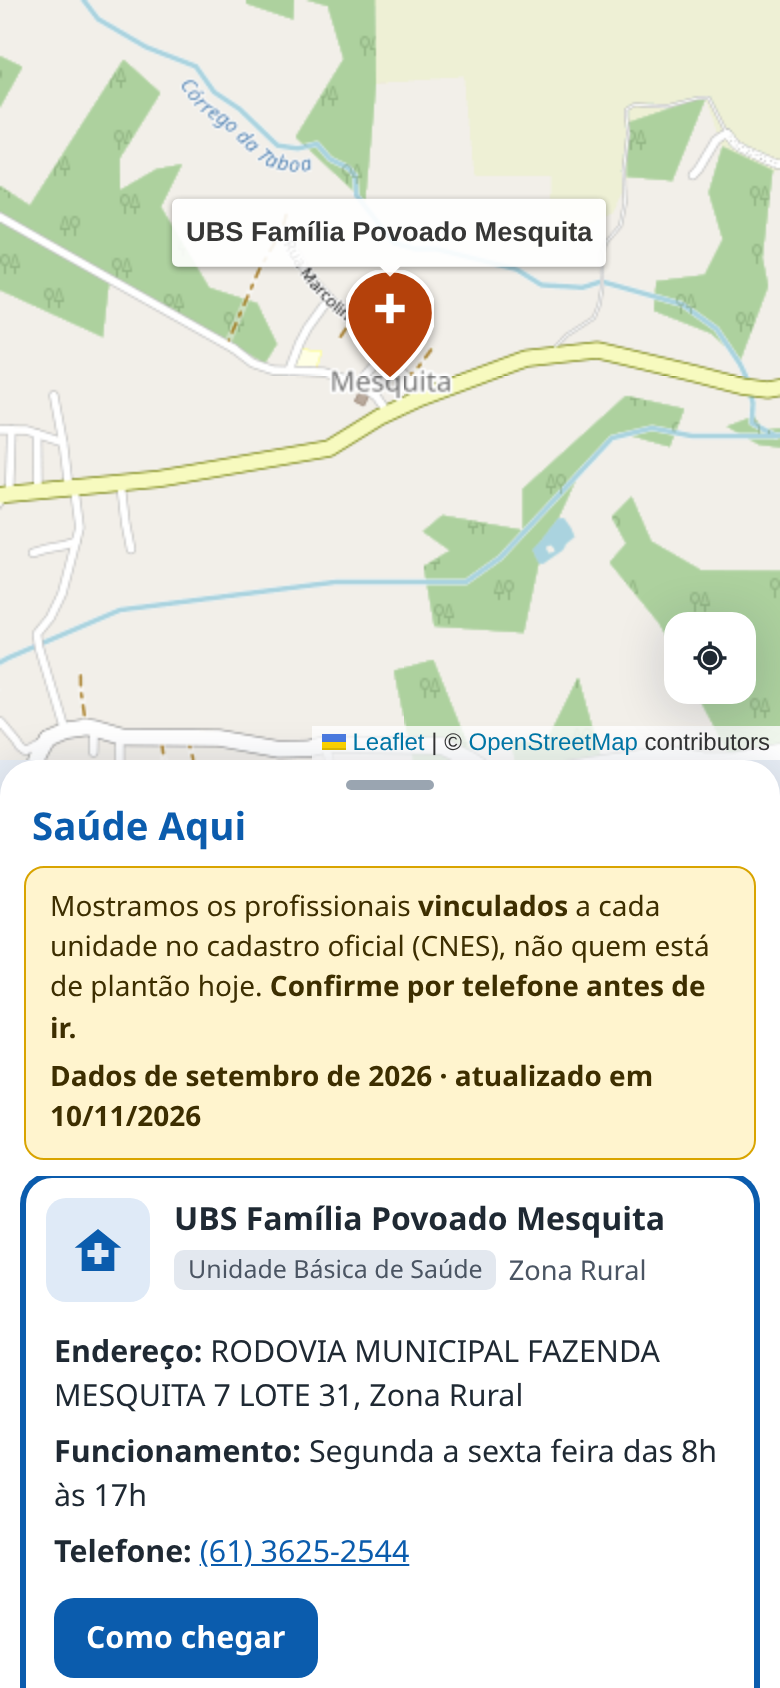
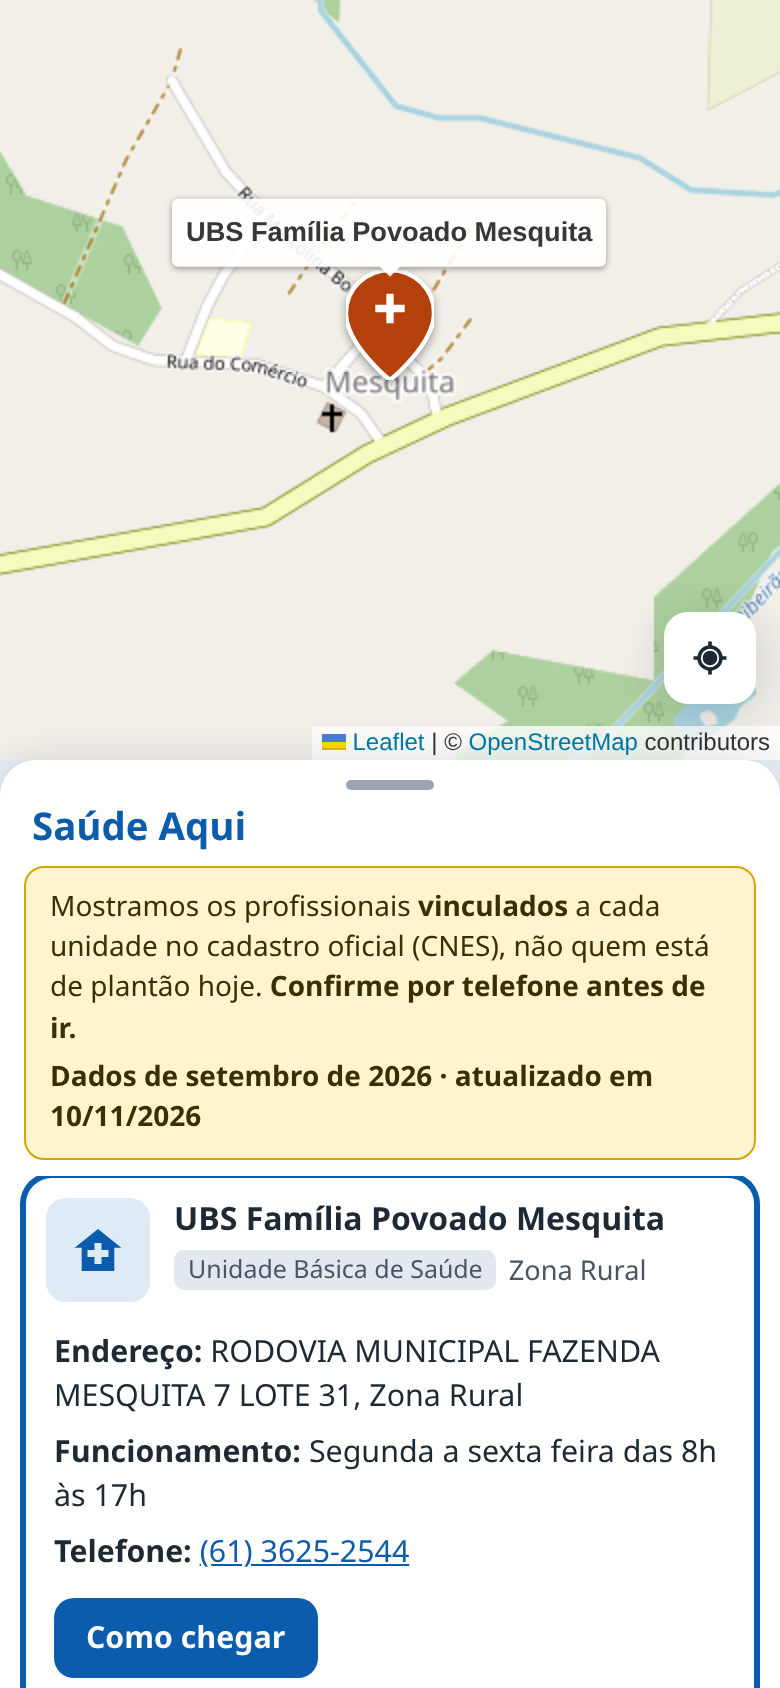
Agrupamento dos marcadores no mapa
- Marcadores próximos viram um círculo com a quantidade (leaflet.markercluster
  via react-leaflet-cluster); clicar no grupo aproxima e separa os pinos
- Ao selecionar uma unidade, o mapa aproxima até o zoom sem agrupamento
- README com capturas atualizadas e explicação do agrupamento

diff --git a/web/src/componentes/Mapa.tsx b/web/src/componentes/Mapa.tsx
@@ -4,6 +4,11 @@
 // O <MapContainer> é montado UMA vez só, ao abrir o site. Trocar
 // filtros só atualiza os marcadores, sem recriar o mapa.
 //
+// Marcadores próximos são AGRUPADOS (leaflet.markercluster): com o mapa
+// afastado, aparece um círculo com a quantidade; ao clicar nele ou
+// aproximar, os pinos se separam. A partir do zoom ZOOM_SEM_AGRUPAR todos
+// os pinos aparecem soltos.
+//
 // Regras do OpenStreetMap: manter a atribuição visível (o Leaflet já faz)
 // e uso leve dos servidores de tiles. Se o tráfego crescer, troque
 // VITE_TILES_URL por um provedor com plano gratuito (MapTiler, Stadia, Carto).
@@ -11,8 +16,10 @@
 
 import L from 'leaflet'
 import 'leaflet/dist/leaflet.css'
+import 'leaflet.markercluster/dist/MarkerCluster.css'
 import { useEffect, useMemo } from 'react'
 import { CircleMarker, MapContainer, Marker, TileLayer, Tooltip, ZoomControl, useMap } from 'react-leaflet'
+import MarkerClusterGroup from 'react-leaflet-cluster'
 import type { Posicao, Unidade } from '../api'
 import { formatarTitulo } from '../util'
 
@@ -22,6 +29,10 @@ const TILES_ATRIBUICAO = import.meta.env.VITE_TILES_ATRIBUICAO ||
 
 // Centro aproximado de Cidade Ocidental (GO)
 const CENTRO_INICIAL: [number, number] = [-16.085, -47.935]
+
+// A partir deste zoom os marcadores não são mais agrupados. Ao selecionar uma
+// unidade, o mapa aproxima pelo menos até aqui, para o pino dela ficar visível.
+const ZOOM_SEM_AGRUPAR = 16
 
 // Largura do painel lateral no desktop (igual ao CSS), para não esconder marcadores atrás dele
 const LARGURA_PAINEL = 440
@@ -42,6 +53,17 @@ function criarIcone(selecionado: boolean, hospital: boolean) {
     iconSize: [tamanho, tamanho * 1.25],
     iconAnchor: [tamanho / 2, tamanho * 1.25], // a ponta do pino fica na coordenada
     tooltipAnchor: [0, -tamanho * 1.15],
+  })
+}
+
+/** Ícone do grupo: círculo azul com a quantidade de unidades agrupadas. */
+function criarIconeGrupo(grupo: L.MarkerCluster) {
+  const total = grupo.getChildCount()
+  const tamanho = total < 10 ? 40 : 48
+  return L.divIcon({
+    className: 'grupo-marcadores',
+    html: `<span aria-label="${total} unidades">${total}</span>`,
+    iconSize: [tamanho, tamanho],
   })
 }
 
@@ -85,7 +107,7 @@ function ControleCamera({ unidades, selecionada, posicao }: Omit<Props, 'aoSelec
   // Quando uma unidade é selecionada (na lista ou no mapa), centraliza nela
   useEffect(() => {
     const u = unidades.find((x) => x.id === selecionada)
-    if (u?.lat != null && u.lng != null) voarPara(mapa, u.lat, u.lng, Math.max(mapa.getZoom(), 15))
+    if (u?.lat != null && u.lng != null) voarPara(mapa, u.lat, u.lng, Math.max(mapa.getZoom(), ZOOM_SEM_AGRUPAR))
   }, [selecionada, mapa])
 
   return null
@@ -112,6 +134,14 @@ export function Mapa({ unidades, selecionada, aoSelecionar, posicao }: Props) {
       <ZoomControl position="bottomright" />
       <ControleCamera unidades={unidades} selecionada={selecionada} posicao={posicao} />
 
+      <MarkerClusterGroup
+        chunkedLoading
+        maxClusterRadius={45}             // distância (px) para juntar pinos num grupo
+        disableClusteringAtZoom={ZOOM_SEM_AGRUPAR}
+        showCoverageOnHover={false}
+        spiderfyOnMaxZoom={false}
+        iconCreateFunction={criarIconeGrupo}
+      >
       {unidades.filter((u) => u.lat !== null && u.lng !== null).map((u) => {
         const ativo = u.id === selecionada
         const hospital = !!u.tipo?.toLowerCase().includes('hospital')
@@ -136,6 +166,7 @@ export function Mapa({ unidades, selecionada, aoSelecionar, posicao }: Props) {
           </Marker>
         )
       })}
+      </MarkerClusterGroup>
 
       {posicao && (
         <CircleMarker

diff --git a/web/src/estilos.css b/web/src/estilos.css
@@ -292,6 +292,23 @@ a { color: var(--cor-primaria); }
 
 .rotulo-marcador { font-weight: 700; font-size: 0.85rem; }
 
+/* Grupo de marcadores: círculo azul com a quantidade e um "halo" claro em volta */
+.grupo-marcadores {
+  display: grid; place-items: center;
+  border-radius: 50%;
+  background: rgba(11, 92, 173, 0.25);          /* halo */
+}
+.grupo-marcadores span {
+  display: grid; place-items: center;
+  width: calc(100% - 10px); height: calc(100% - 10px);
+  border: 2px solid #fff;
+  border-radius: 50%;
+  background: var(--cor-primaria);
+  color: #fff;
+  font-weight: 700; font-size: 0.95rem;
+  box-shadow: 0 2px 4px rgba(0, 0, 0, 0.3);
+}
+
 /* No celular, zoom é por gesto de pinça: escondemos os botões +/- */
 .leaflet-control-zoom { display: none; }
 

diff --git a/README.md b/README.md
@@ -20,6 +20,10 @@ Projeto de alunos de graduação da UFG. O código é propositalmente simples e 
 Mapa em tela cheia, com um painel de busca e a lista de unidades. O aviso fixo explica que os dados
 mostram profissionais **vinculados** (e não plantões) e informa a data da última atualização.
 
+Unidades próximas umas das outras aparecem **agrupadas** num círculo com a quantidade. Ao clicar
+no grupo (ou aproximar o mapa), os pinos se separam. Ao escolher uma unidade na lista, o mapa
+aproxima até o pino dela aparecer, mesmo que ela estivesse dentro de um grupo.
+
 ![Visão geral no desktop](docs/capturas/desktop-visao-geral.png)
 
 ### Unidades mais próximas
